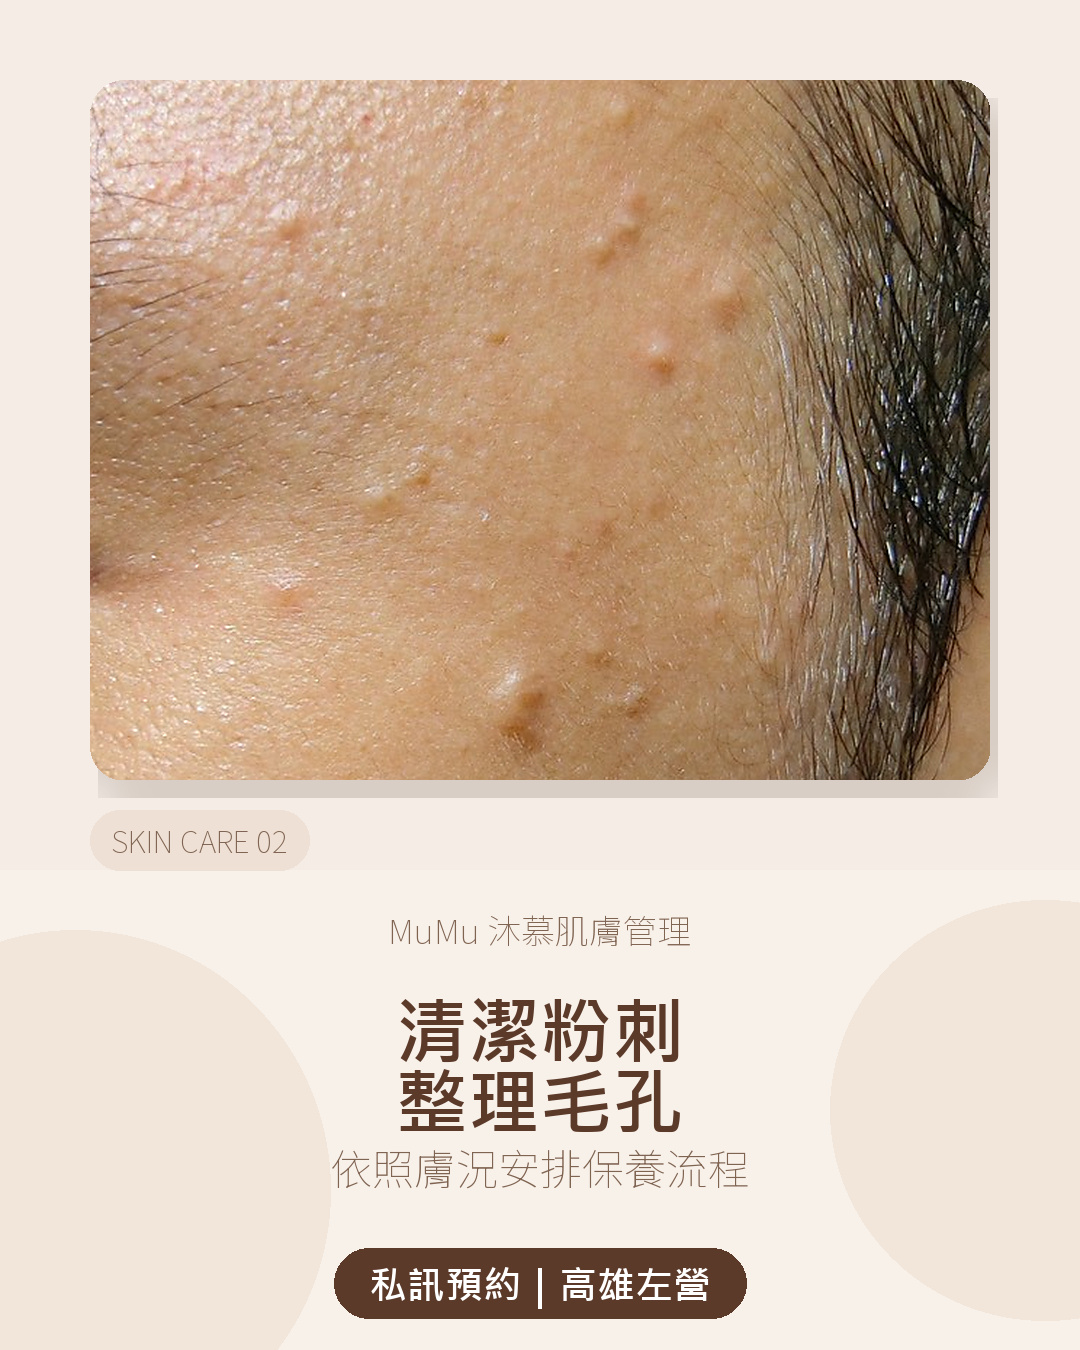
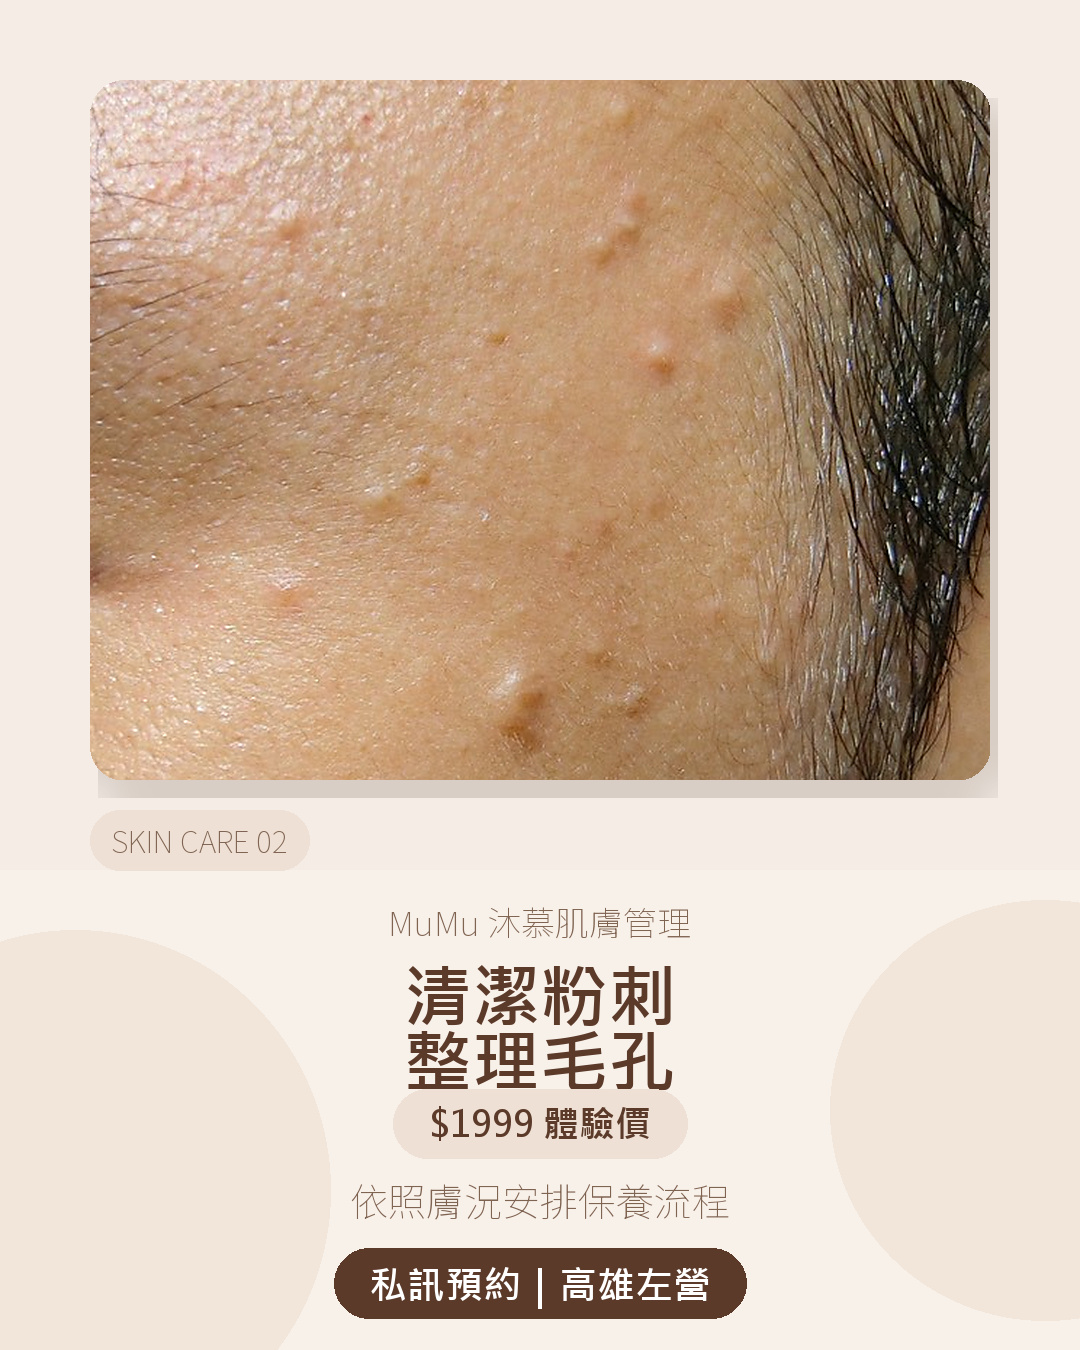
Show price across carousel

Changed region(s): [[0.3056, 0.6533, 0.6722, 0.9022]]

diff --git a/index.html b/index.html
@@ -349,16 +349,14 @@
 
 MuMu 沐慕肌膚管理提供臉部清潔保養服務，依照膚況安排清潔、舒緩與保養流程，讓肌膚維持乾淨清爽的日常狀態。
 
-現在體驗價 $1999。
-
-想了解清粉刺或臉部保養課程，歡迎私訊預約。</div>
+體驗價 $1999，歡迎私訊預約或了解適合課程。</div>
 
             <div class="carousel" aria-label="輪播圖片">
               <div class="card">
                 <img src="01_acne_comedone_care.jpg" alt="痘痘粉刺照護需求廣告圖">
                 <div class="card-text">
                   <div class="card-title">痘痘粉刺照護需求？</div>
-                  <div class="card-sub">從溫和清潔保養開始</div>
+                  <div class="card-sub">$1999 體驗價｜從溫和清潔保養開始</div>
                   <div class="button">私訊預約</div>
                 </div>
               </div>
@@ -367,7 +365,7 @@ MuMu 沐慕肌膚管理提供臉部清潔保養服務，依照膚況安排清潔
                 <img src="02_pore_cleansing.jpg" alt="清潔粉刺整理毛孔廣告圖">
                 <div class="card-text">
                   <div class="card-title">清潔粉刺・整理毛孔</div>
-                  <div class="card-sub">依照膚況安排保養流程</div>
+                  <div class="card-sub">$1999 體驗價｜依照膚況安排保養流程</div>
                   <div class="button">私訊預約</div>
                 </div>
               </div>
@@ -403,9 +401,7 @@ MuMu 沐慕肌膚管理提供臉部清潔保養服務，依照膚況安排清潔
 
 MuMu 沐慕肌膚管理提供臉部清潔保養服務，依照膚況安排清潔、舒緩與保養流程，讓肌膚維持乾淨清爽的日常狀態。
 
-現在體驗價 $1999。
-
-想了解清粉刺或臉部保養課程，歡迎私訊預約。
+體驗價 $1999，歡迎私訊預約或了解適合課程。
 高雄市左營區立明街 148 號</p>
         </div>
 
